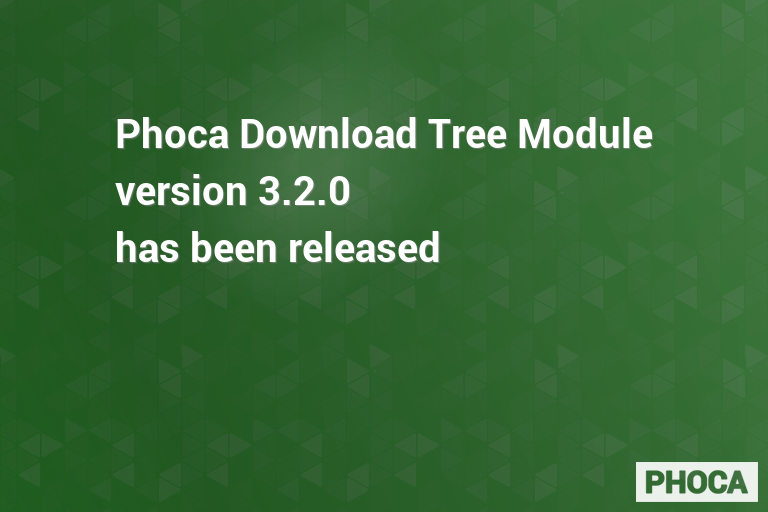
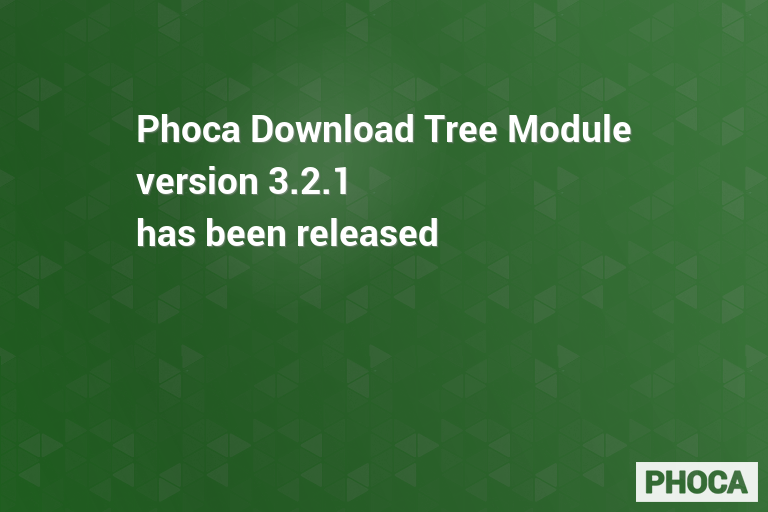
3.2.1
3.2.1

Changed region(s): [[0.125, 0.2188, 0.875, 0.4062], [0.125, 0.4375, 0.5938, 0.5312]]

diff --git a/mod_phocadownload_tree.php b/mod_phocadownload_tree.php
@@ -179,7 +179,7 @@ if(isset($itemsCategories[0]) && (int)$params->get('display_header', 1) == 1) {
 
 
 
-JHtml::_('jquery.framework', false);
+Joomla\CMS\HTML\HTMLHelper::_('jquery.framework', false);
 $js	  = array();
 $js[] = ' ';
 $js[] = 'jQuery(function () {';

diff --git a/README.MD b/README.MD
@@ -54,7 +54,7 @@ Phoca Download Tree Module is a Joomla! module which displays category tree of P
 
 ## Version
 
-3.2.0
+3.2.1
 
 
 
